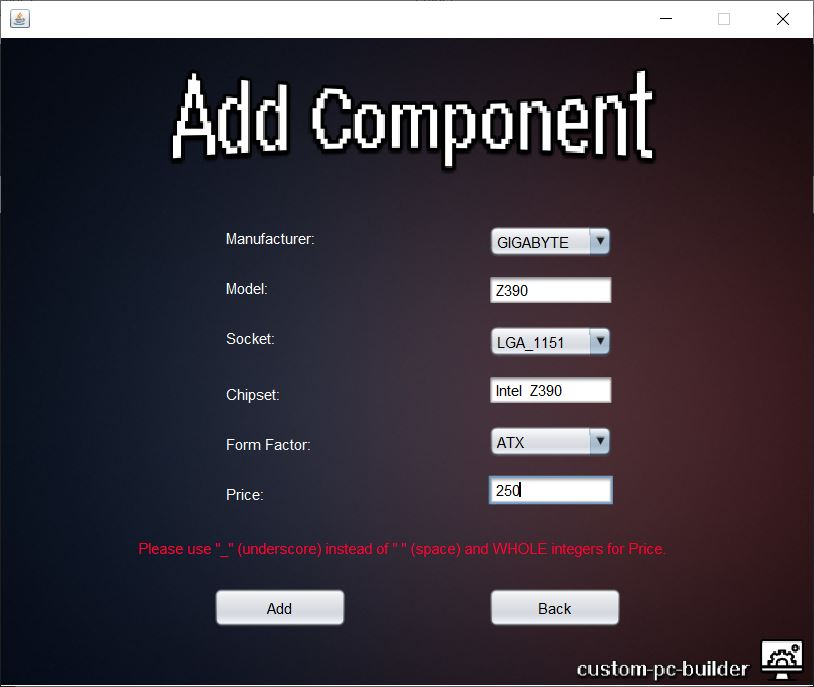
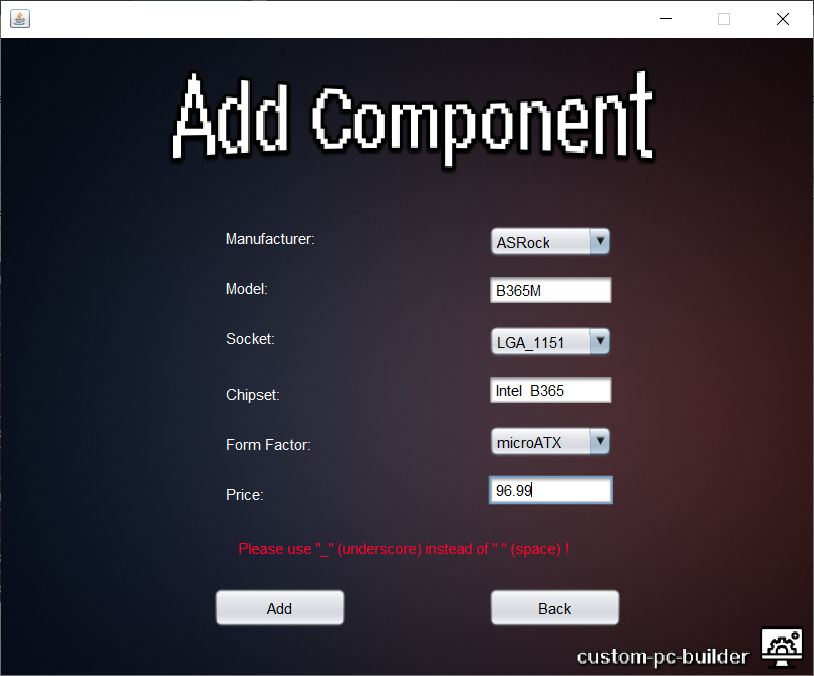
updated versions in the changelog
added progress from different versions in the changelog and altered some of the pictures used in the readme

diff --git a/CHANGELOG.md b/CHANGELOG.md
@@ -14,19 +14,33 @@ and this project adheres to [Semantic Versioning](https://semver.org/spec/v2.0.0
 ### Changed
 - README.md
 
-#### REMOVED
+#### Removed
 - Connect.java
 
-## [0.0.2] - DATE
+## [0.0.2] - 2019-12-03
 ### Added
--
+- Add Motherboard
+- Browse List of Motherboards
+
+### Changed
+- readme
+- roadmap
+
+## [0.0.3] - 2019-12-04
+### Added
+- Add Graphics Card, Processor, PSU
+- Browse Lists of Graphics Cards, Processors, PSUs
+- Comboboxes for easier and more user friendly component adding
+
+### Changed
+- readme
+- Pictures of the Forms 
+
+## [0.0.4] - DATE
+### Added
 -
 
 ### Changed
--
-
-## [0.0.3] - DATE
-### Added
 -
 
 ### Removed
